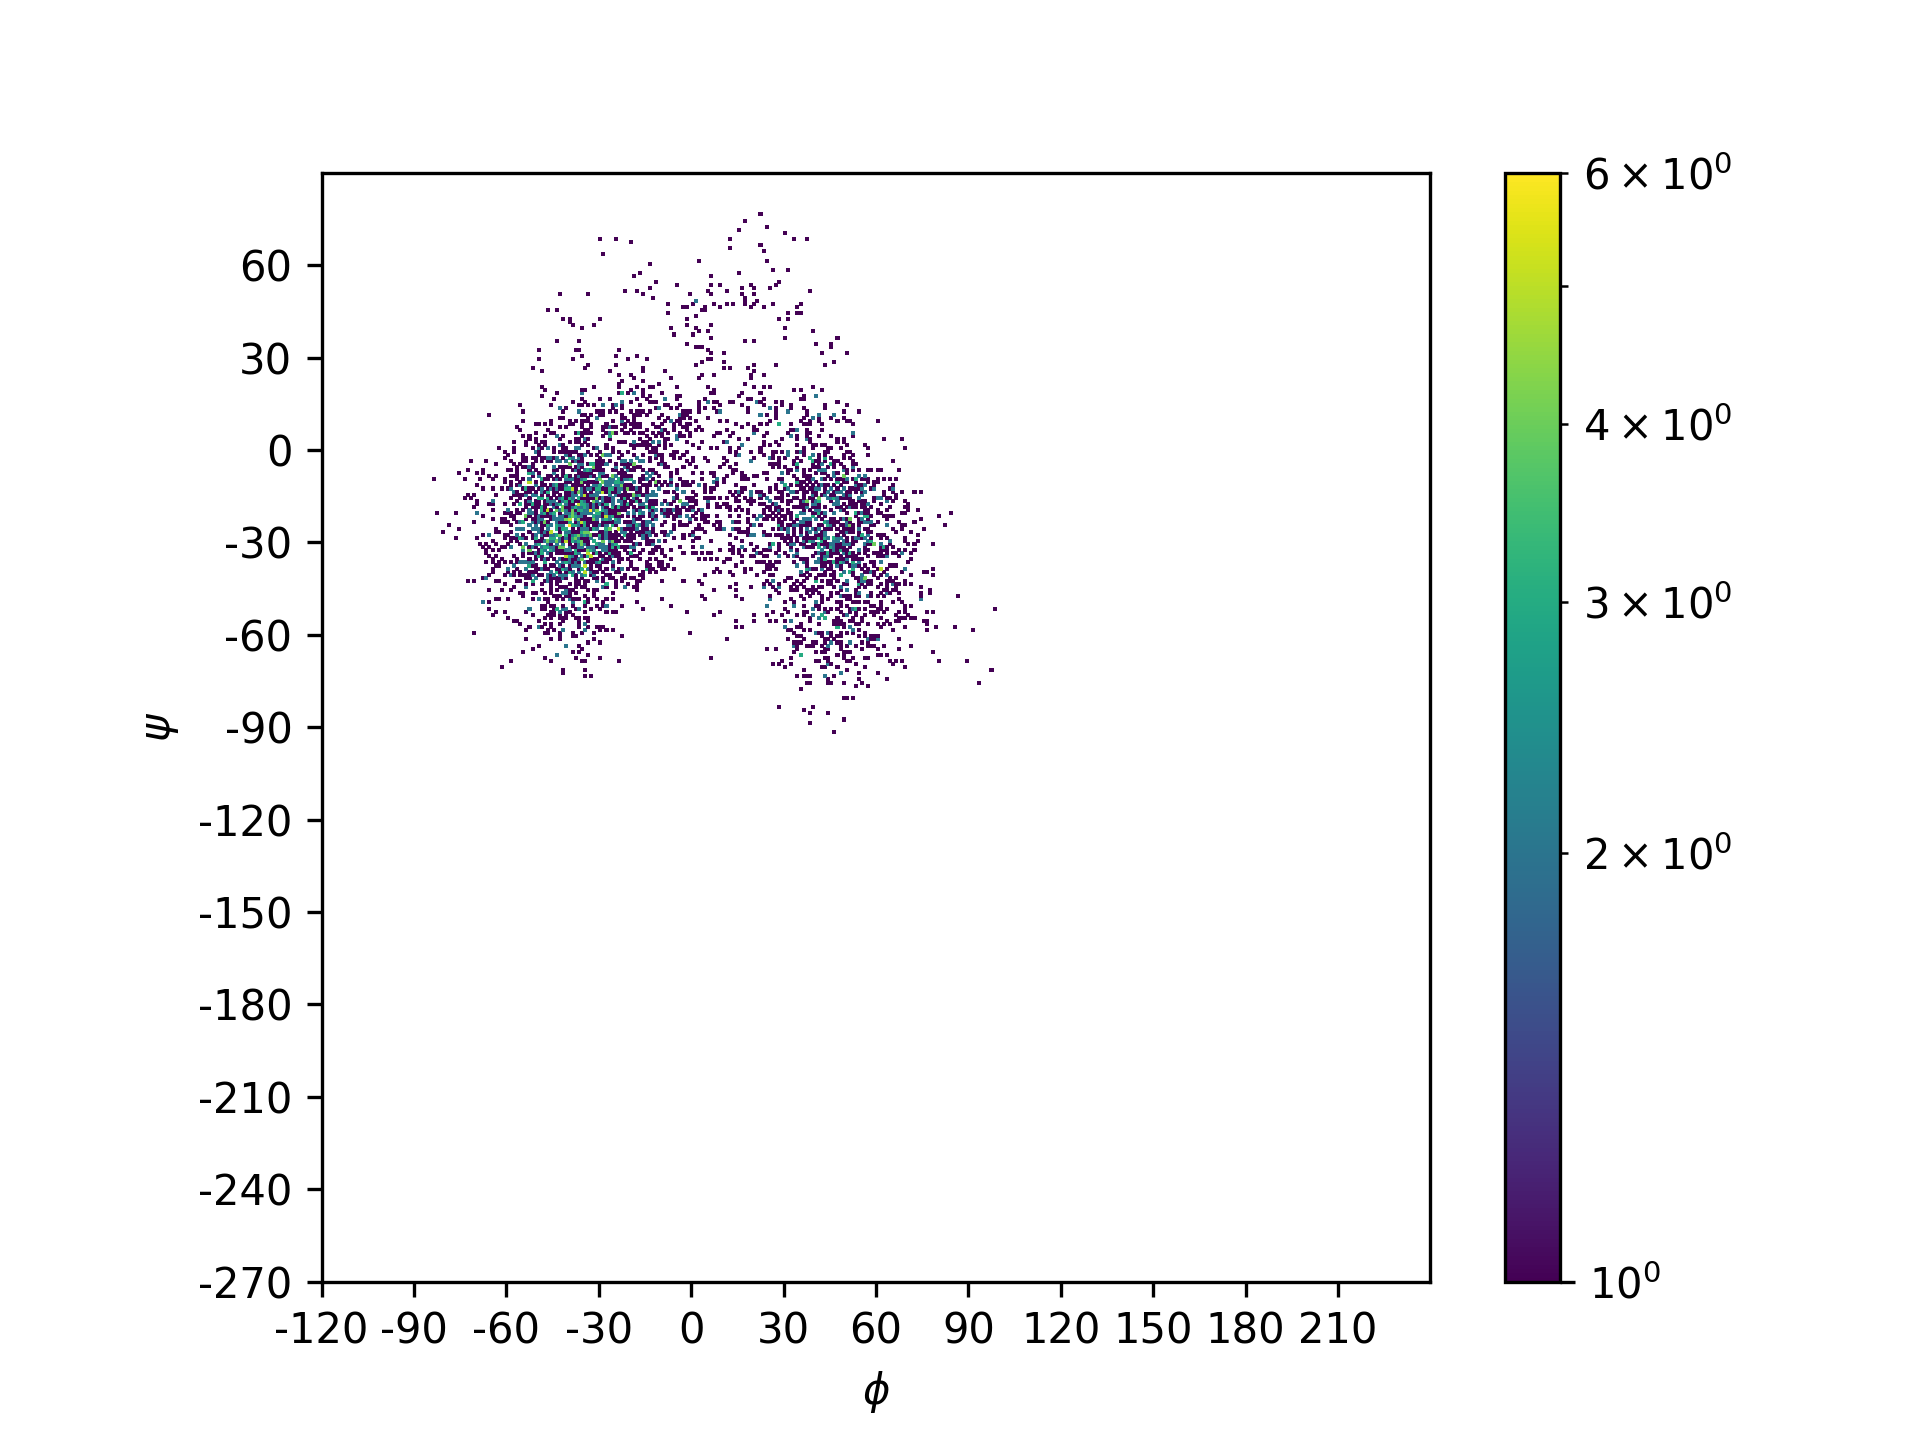
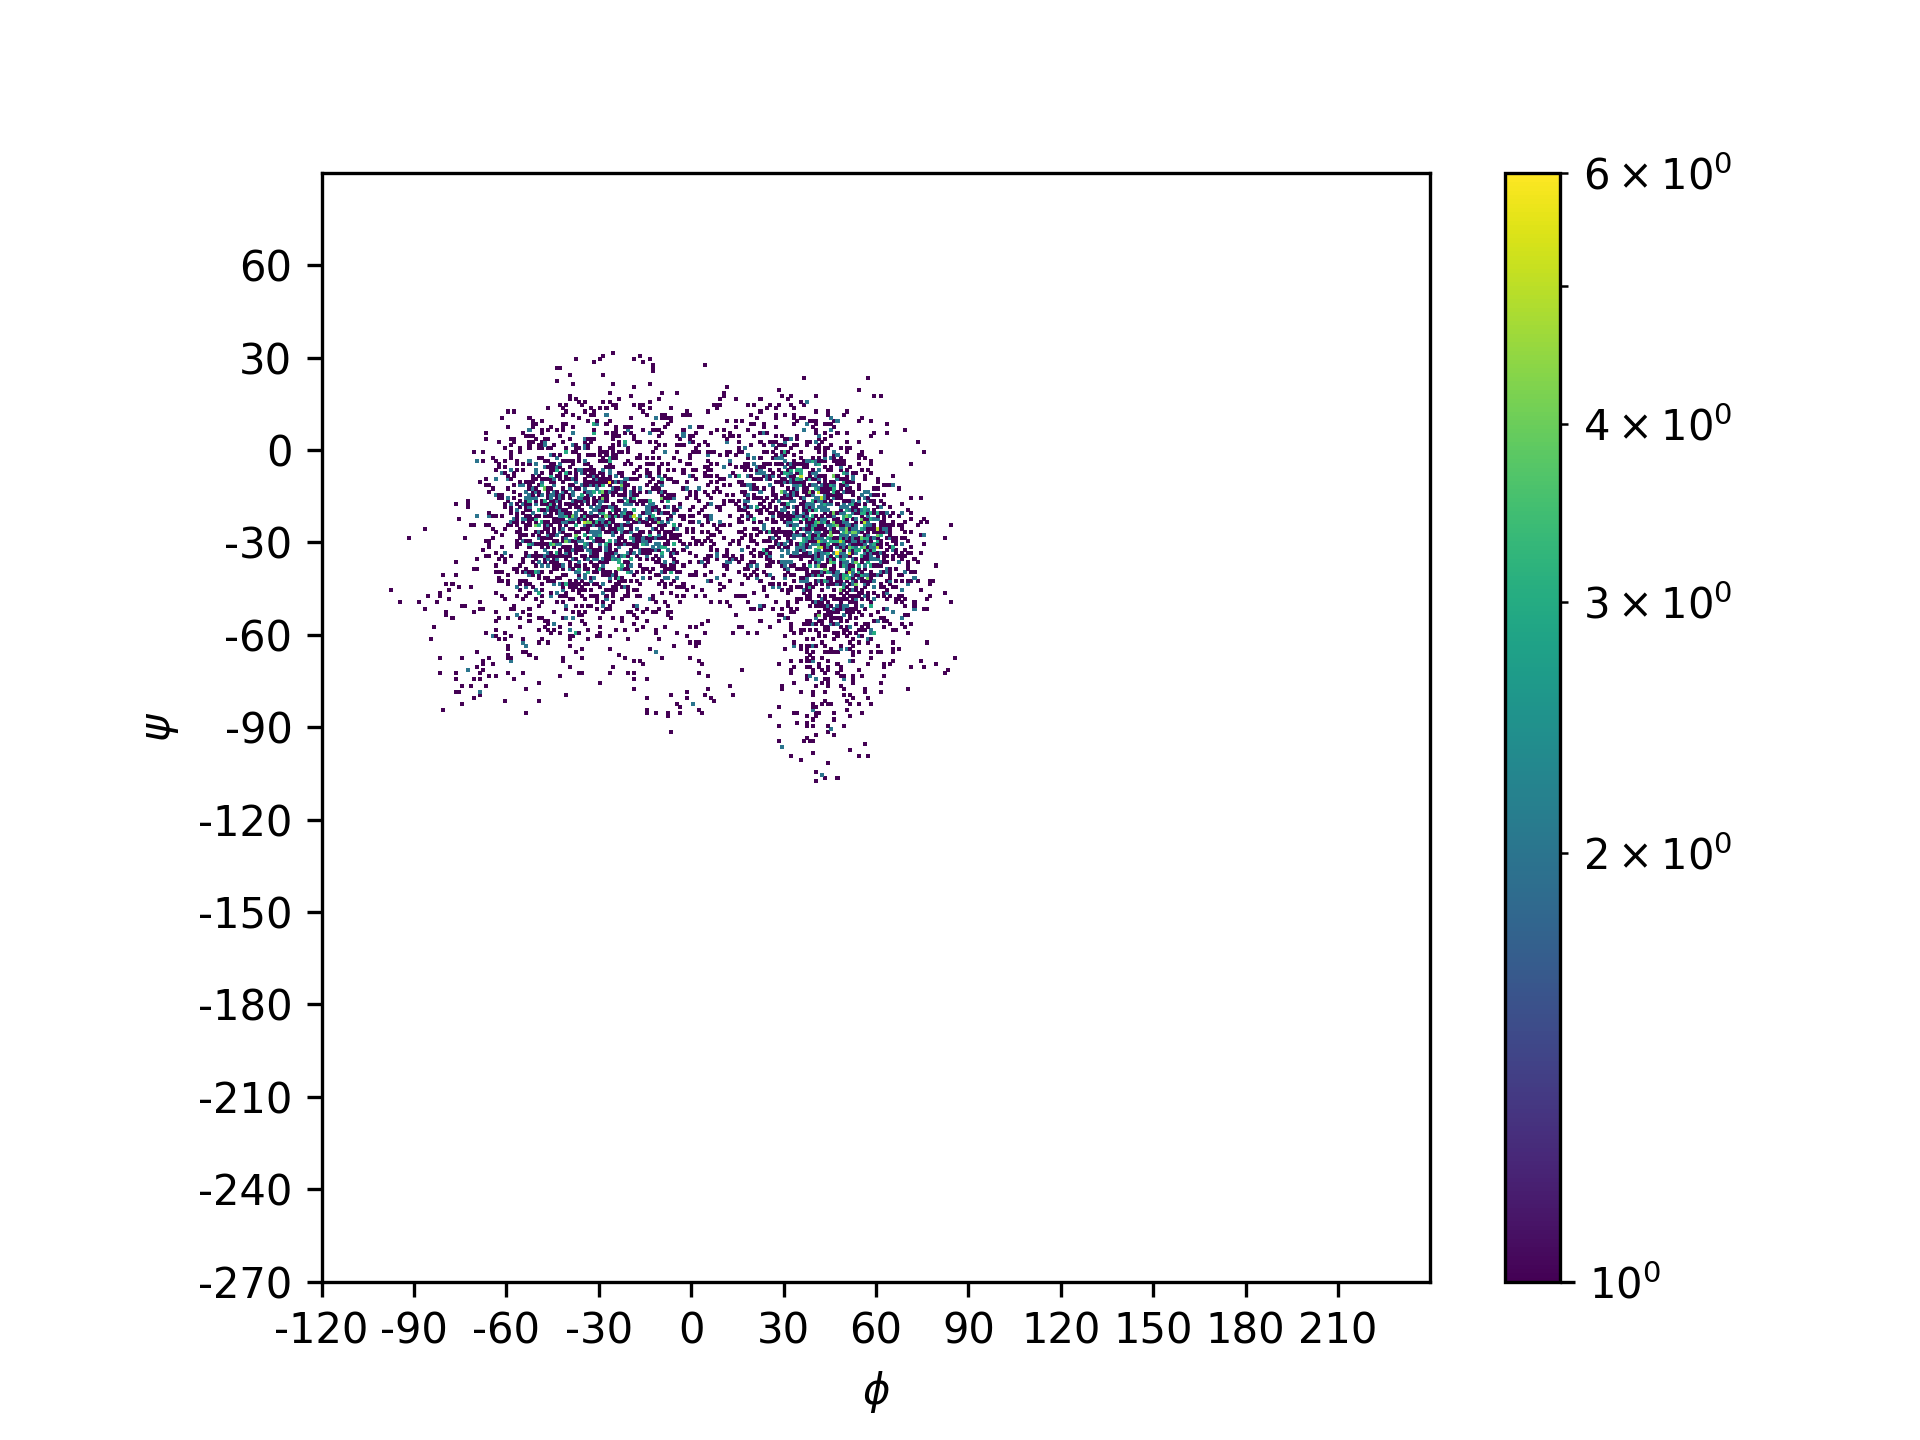
run 10ns on ACS CPU

Changed region(s): [[0.2188, 0.2188, 0.5, 0.5312], [0.375, 0.1875, 0.4062, 0.2188]]

diff --git a/md.py b/md.py
@@ -19,15 +19,16 @@ if __name__ == '__main__':
     samples = 20
 
     # first, run a long simulation
-    run_macro_simulation(debug=DEBUG)
+    #run_macro_simulation(debug=DEBUG)
 
-    df = pd.DataFrame(read_xvg('data/md_long_nojump_rama.xvg'))
+    df = pd.DataFrame(read_xvg('simulation/long/rama.xvg'))
     df = apply_offset(df)
 
     if df.shape[0] < 1000:
         print("Not enough steps saved for analysis.")
         print("Please configure .mdp for GROMACS simulation.")
         exit(1)
+    print(len(df))
 
     # draw point density
     create_ramachandran_plot(df, "")
